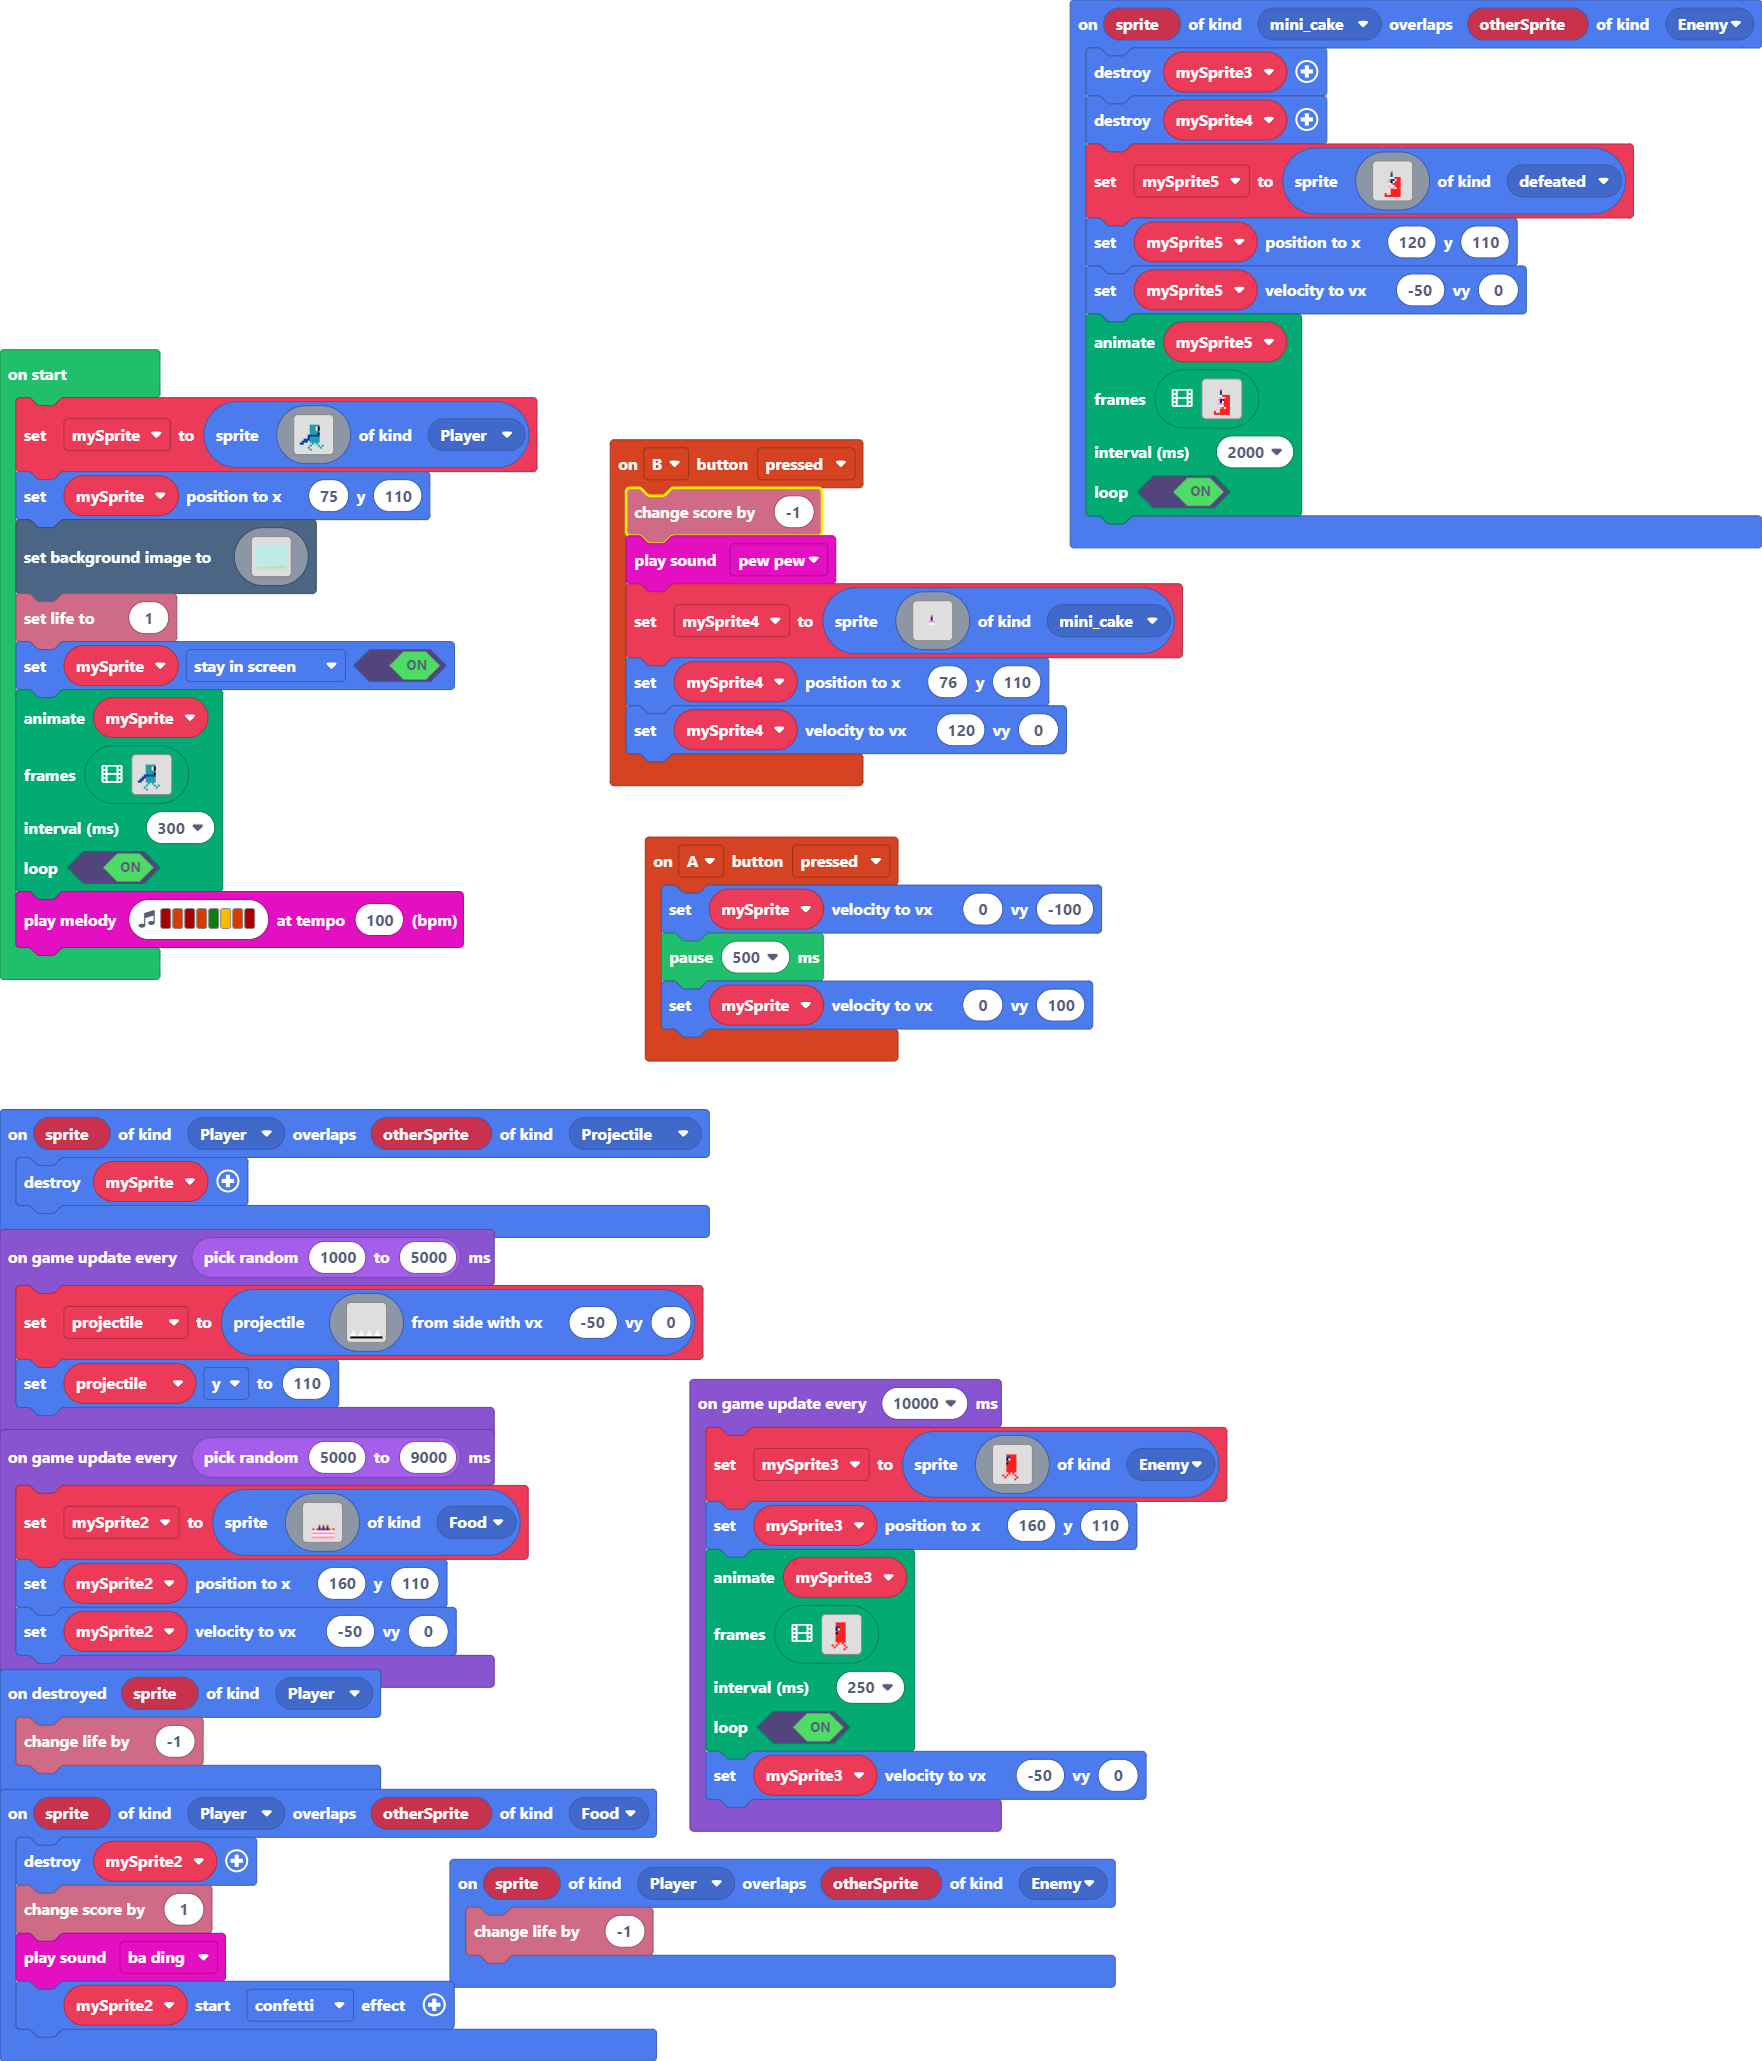
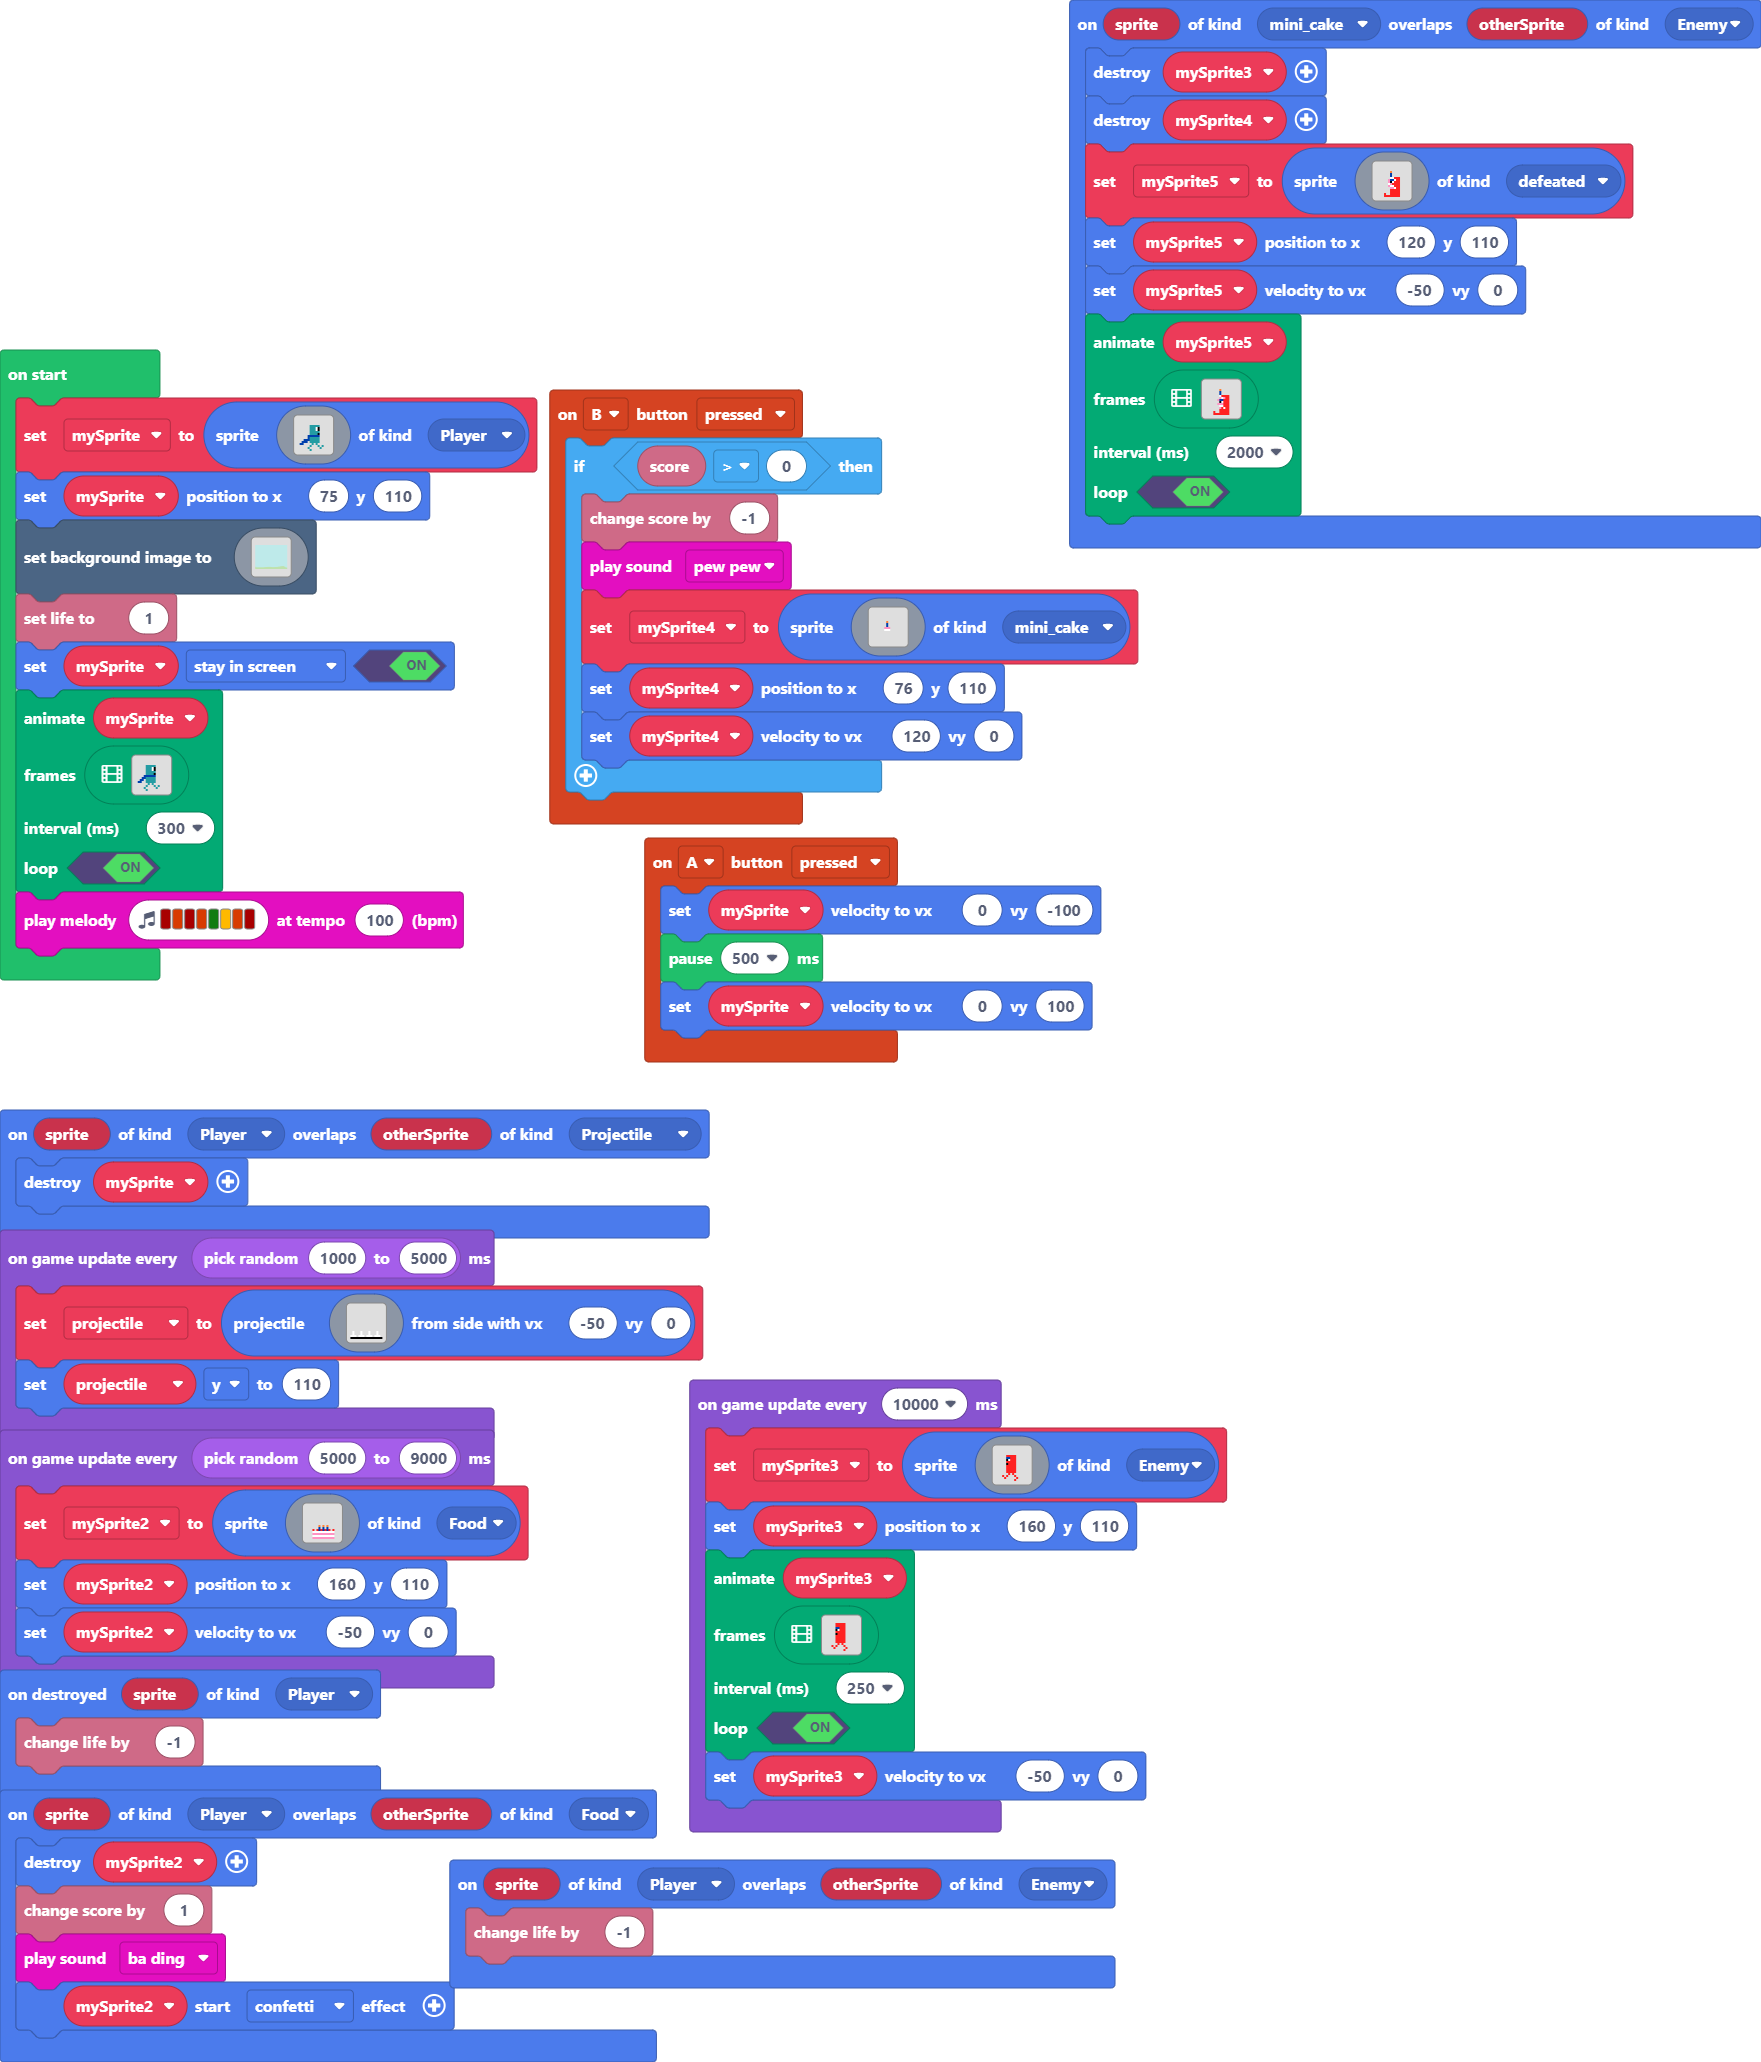
Update main.blocks, main.ts

diff --git a/main.ts b/main.ts
@@ -4,9 +4,10 @@ namespace SpriteKind {
     export const defeated = SpriteKind.create()
 }
 controller.B.onEvent(ControllerButtonEvent.Pressed, function () {
-    info.changeScoreBy(-1)
-    music.pewPew.play()
-    mySprite4 = sprites.create(img`
+    if (info.score() > 0) {
+        info.changeScoreBy(-1)
+        music.pewPew.play()
+        mySprite4 = sprites.create(img`
 . . . . . . . . . . . . . . . . 
 . . . . . . . . . . . . . . . . 
 . . . . . . . . . . . . . . . . 
@@ -24,8 +25,9 @@ controller.B.onEvent(ControllerButtonEvent.Pressed, function () {
 . . . . . . . . . . . . . . . . 
 . . . . . . . . . . . . . . . . 
 `, SpriteKind.mini_cake)
-    mySprite4.setPosition(76, 110)
-    mySprite4.setVelocity(120, 0)
+        mySprite4.setPosition(76, 110)
+        mySprite4.setVelocity(120, 0)
+    }
 })
 controller.A.onEvent(ControllerButtonEvent.Pressed, function () {
     mySprite.setVelocity(0, -100)
